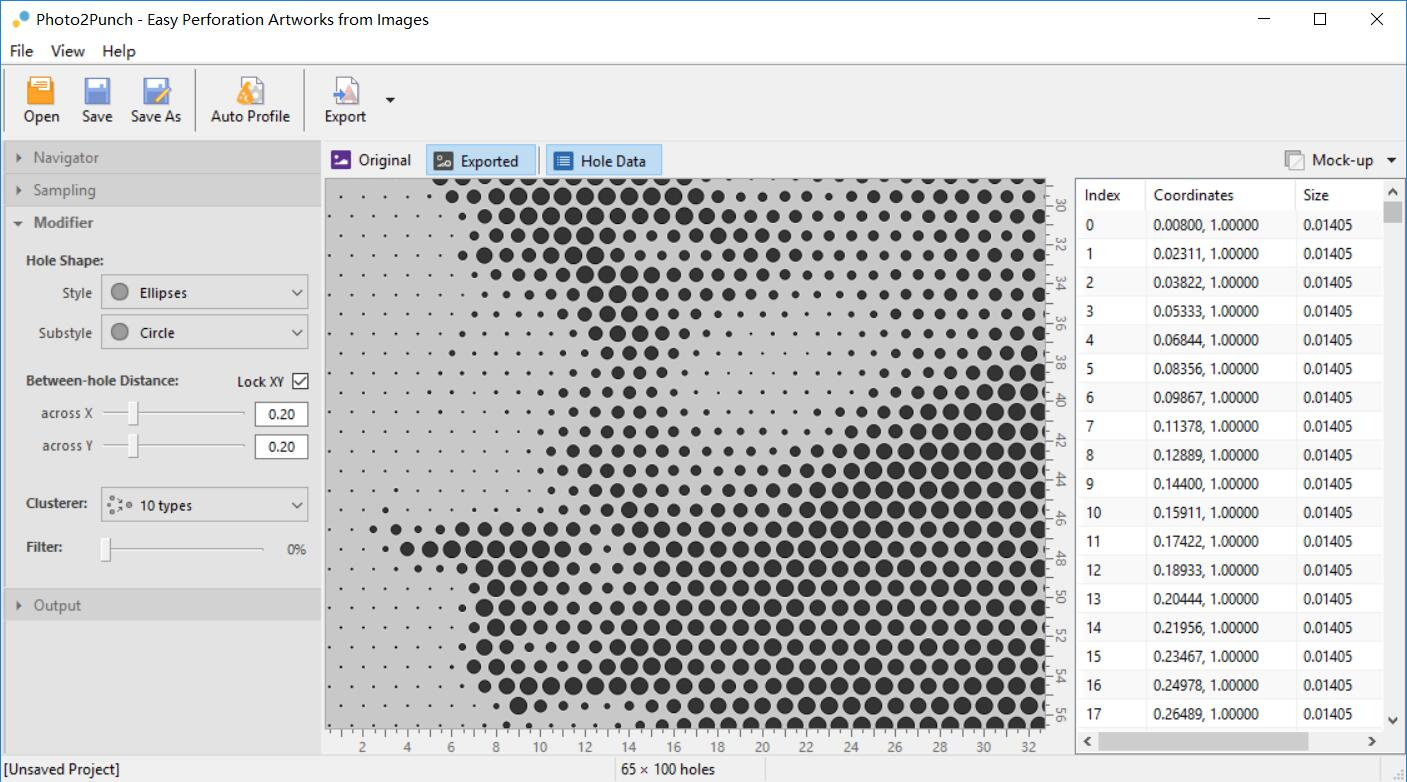
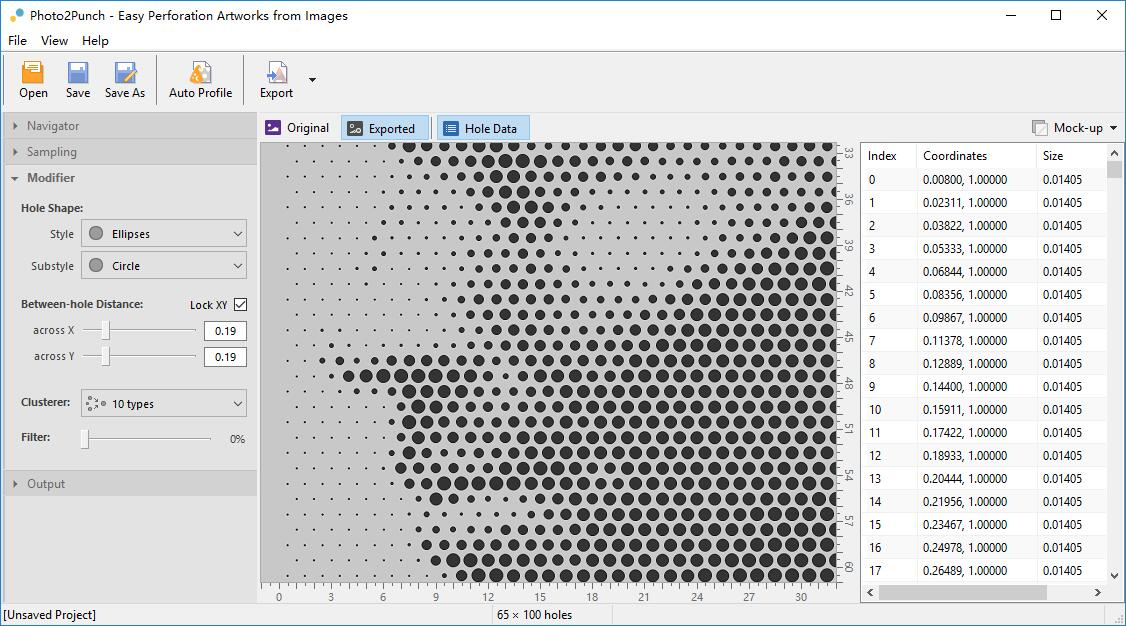
Updated Photo2Punch

diff --git a/src/components/projects/Photo2Punch.vue b/src/components/projects/Photo2Punch.vue
@@ -14,12 +14,22 @@
       </v-flex>
       <v-flex xs12 mt-2>
         <img
+          src="/static/photo2punch_demo.png"
+          width="100%"
+          class="mb-3"
+        />
+        <p>This project was created at the request of a startup perforation artwork company in Dongguan, China.</p>
+        <p><strong>Photo2Punch</strong> is a CAD software used to generate custom perforated patterns based on virtually any digital image document. It allows users to change parameters such as hole number, size, shape, and clusters to create fully custom hole patterns. The perforated pattern can then be converted into an AutoCAD DWG file format for the manufacturing process.</p>
+        <img
           src="/static/photo2punch.jpg"
+          width="100%"
+          class="elevation-2 mb-2"
+        />
+        <img
+          src="/static/photo2punch_ss_2.jpg"
           width="100%"
           class="elevation-2 mb-3"
         />
-        <p>This project was created at the request of a startup perforation artwork company in Dongguan, China.</p>
-        <p><strong>Photo2Punch</strong> is a CAD software used to generate custom perforated patterns based on virtually any digital image document. It allows users to change parameters such as hole number, size, shape, and clusters to create fully custom hole patterns. The perforated pattern can then be converted into a DWG file format for the manufacturing process.</p>
       </v-flex>
     </v-layout>
   </v-container>

diff --git a/src/components/projects/SpamDetector.vue b/src/components/projects/SpamDetector.vue
@@ -26,7 +26,7 @@
           </div>
         </div>
         <p>My main role in the team was to: 1) harvest Twitter open data given a specific period of time using emotion keywords from the NRC Hashtag Emotion Lexicon <small>(Mohammad and Turney, 2010)</small>; 2) clean and normalize the collected data; 3) analyze the data statistically and help to train a SVM <small>[Support Vector Machine]</small> model to predict emotion spams with NLTK+Scikit-learn packages; 4) participate in the manual labelling process and the final <a href="/static/pdf/spam_detector_report.pdf" target="_blank">term paper</a>. </p>
-        <p>This Python-based project has been later adapted to a webapp by one of our team members Qian Yang, through which you can have a more intuitive understanding toward the project.</p>
+        <p>This Python-based project has been later adapted to a webapp by one of our team members, Qian Yang, and through which I hope you will have a more intuitive understanding toward the project.</p>
         <div class="my-3 text-xs-center">
           <v-btn dark color="primary" to="/projects/spam_detector/demo">
             <v-icon left>pageview</v-icon>

diff --git a/src/components/tabs/Dev.vue b/src/components/tabs/Dev.vue
@@ -37,7 +37,7 @@ export default {
         {
           preview: '/static/photo2punch.jpg',
           title: 'Photo2Punch',
-          subtitle: 'Photo2Punch is an image-to-perforation software that can easily create AutoCAD files ready for punching.',
+          subtitle: 'An image-to-perforation software that can easily create AutoCAD files ready for metal perforation.',
           route: '/projects/photo2punch'
         },
         { header: 'Web Development', icon: 'public' },
@@ -56,9 +56,9 @@ export default {
           route: '/projects/todogo'
         },
         {
-          preview: '/static/mgexf_web_ss.jpg',
+          preview: '/static/mgexf_web.jpg',
           title: 'MagicEXIF Website',
-          stacks: ['Vue.js', 'Bootstrap'],
+          stacks: ['Vue.js', 'Wilddog'],
           subtitle: 'The official website for <em>MagicEXIF Editor</em>. A new version of the website is currently underway.',
           route: '/projects/magicexif_web'
         },
